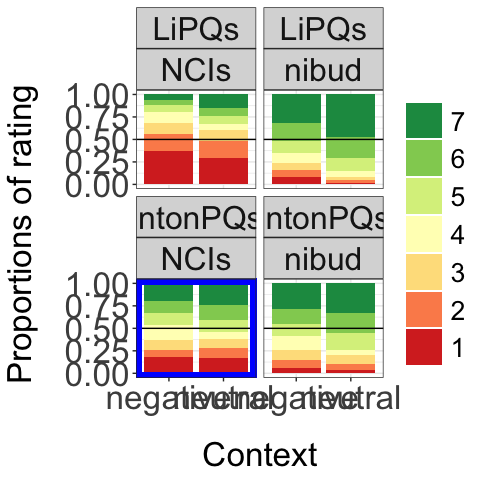
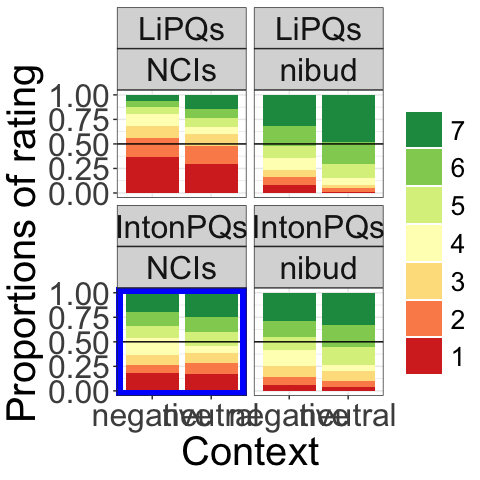
Anova stuff

diff --git a/freq/script.md b/freq/script.md
@@ -14,8 +14,6 @@ Masha Onoeva
   - [Standard error](#standard-error)
   - [t-test](#t-test)
   - [ANOVA](#anova)
-  - [Linear model and linear mixed
-    model](#linear-model-and-linear-mixed-model)
   - [Cumulative Link Mixed Model](#cumulative-link-mixed-model)
 
 ## Info
@@ -377,7 +375,7 @@ as_raw_html(raw_summary %>% gt(groupname_col = 'indef',
   cols_label(verb = 'Verb'))
 ```
 
-<div id="dztmhfgcyb" style="padding-left:0px;padding-right:0px;padding-top:10px;padding-bottom:10px;overflow-x:auto;overflow-y:auto;width:auto;height:auto;">
+<div id="bxbzwbrjeb" style="padding-left:0px;padding-right:0px;padding-top:10px;padding-bottom:10px;overflow-x:auto;overflow-y:auto;width:auto;height:auto;">
   &#10;  
 
 |          | Verb  | Mode | Median | Mean | Range | Variance | SD   |
@@ -472,11 +470,11 @@ e1_main_plot1 <- ggplot(e1_df_relevel1, aes(fill = rating1, x = context)) +
     text = element_text(size = 30),
     legend.text = element_text(size = 20),
     legend.key.size = unit(1, 'cm'),
-    legend.title = element_blank(),
-    axis.text = element_text(size = 25),
-    axis.title = element_text(size = 25),
-    axis.title.y = element_text(margin = margin(t = 0, r = 20, b = 0, l = 0)),
-    axis.title.x = element_text(margin = margin(t = 20, r = 0, b = 0, l = 0))
+    legend.title = element_blank()
+    # axis.text = element_text(size = 25),
+    # axis.title = element_text(size = 25),
+    # axis.title.y = element_text(margin = margin(t = 0, r = 20, b = 0, l = 0)),
+    # axis.title.x = element_text(margin = margin(t = 20, r = 0, b = 0, l = 0))
   ) +
   xlab("Context") +
   ylab("Proportions of rating") + 
@@ -649,7 +647,7 @@ as_raw_html(raw_summary1 %>% gt(groupname_col = 'indef',
              RSE = 'RSE (%)'))
 ```
 
-<div id="vccjnkqrfz" style="padding-left:0px;padding-right:0px;padding-top:10px;padding-bottom:10px;overflow-x:auto;overflow-y:auto;width:auto;height:auto;">
+<div id="tuzumaagya" style="padding-left:0px;padding-right:0px;padding-top:10px;padding-bottom:10px;overflow-x:auto;overflow-y:auto;width:auto;height:auto;">
   &#10;  
 
 |          | Verb  | Mean | SD   | SE     | RSE (%) |
@@ -763,7 +761,7 @@ as_raw_html(t_test_results %>%
                          p.value = 'p-value'))
 ```
 
-<div id="yjmujcxatc" style="padding-left:0px;padding-right:0px;padding-top:10px;padding-bottom:10px;overflow-x:auto;overflow-y:auto;width:auto;height:auto;">
+<div id="mdsfcdjouf" style="padding-left:0px;padding-right:0px;padding-top:10px;padding-bottom:10px;overflow-x:auto;overflow-y:auto;width:auto;height:auto;">
   &#10;  
 
 | Condition | Mean | t-value | p-value | parameter | conf.low | conf.high | method | alternative |
@@ -825,9 +823,17 @@ and in items. There are possibilities how to account for it for t-test
 
 ### ANOVA
 
-(All taken from [this web](https://statsandr.com/blog/anova-in-r/) and
-[this
-web](https://support.minitab.com/en-us/minitab/help-and-how-to/statistical-modeling/anova/supporting-topics/basics/what-is-anova/).)
+#### One-way ANOVA
+
+Disclaimer :point_up:: All of this with one-way ANOVA is done only for
+an explanatory and study purpose. My design is within-subject, so
+technically I cannot use one-way ANOVA. I violate so many things here
+:grimacing:
+
+Disclaimer :v:: All taken from [this
+web](https://statsandr.com/blog/anova-in-r/), [this
+web](https://support.minitab.com/en-us/minitab/help-and-how-to/statistical-modeling/anova/supporting-topics/basics/what-is-anova/)
+and Levshina (2016).
 
 ANOVA (Analysis of Variance) suits a bit better for the experiment but
 it’s still not quite there yet as it doesn’t care for random effects.
@@ -882,16 +888,52 @@ oneway.test(rating1~condition,
     data:  rating1 and condition
     F = 90, num df = 7, denom df = 927, p-value <2e-16
 
-#### Two-way ANOVA?
+Below is the most common output from ANOVA. Once again I violate perhaps
+all conditions that can be violated but who cares.
 
 ``` r
-lm_model <- lm(rating1 ~ indef * verb * context, data = e1_df)
-summary(lm_model)
+e1_df$rating1 <- as.numeric(e1_df$rating1)
+e1_df.aov <- aov(rating1~condition, data=e1_df)
+summary(e1_df.aov)
+```
+
+                  Df Sum Sq Mean Sq F value Pr(>F)    
+    condition      7   2020   288.6    75.6 <2e-16 ***
+    Residuals   2168   8274     3.8                   
+    ---
+    Signif. codes:  0 '***' 0.001 '**' 0.01 '*' 0.05 '.' 0.1 ' ' 1
+
+``` r
+res <- residuals(e1_df.aov)
+pred <- predict(e1_df.aov)
+
+# Residuals vs Predicted Values
+plot(pred, res, 
+     xlab = "Predicted Values", 
+     ylab = "Residuals", 
+     main = "Residuals vs. Predicted Values",
+     pch = 20, col = "blue")
+abline(h = 0, col = "red", lty = 2)
+```
+
+![](script_files/figure-commonmark/unnamed-chunk-30-1.png)
+
+``` r
+# Q-Q Plot
+qqnorm(res)  # Create the Q-Q plot
+qqline(res, col = "red")  # Add a reference line
+```
+
+![](script_files/figure-commonmark/unnamed-chunk-30-2.png)
+
+``` r
+e1_df.lm <- lm(rating1~condition1, data=e1_df)
+summary(e1_df.lm)
 ```
 
 
     Call:
-    lm(formula = rating1 ~ indef * verb * context, data = e1_df)
+    lm(formula = rating1 ~ condition1, data = e1_df)
 
     Residuals:
        Min     1Q Median     3Q    Max 
@@ -899,14 +941,14 @@ summary(lm_model)
 
     Coefficients:
                                      Estimate Std. Error t value Pr(>|t|)    
-    (Intercept)                        2.7574     0.1184   23.28  < 2e-16 ***
-    indefnibud                         2.2500     0.1675   13.43  < 2e-16 ***
-    verbV2                             1.4154     0.1675    8.45  < 2e-16 ***
-    contextneutral                     0.5772     0.1675    3.45  0.00058 ***
-    indefnibud:verbV2                 -1.5699     0.2369   -6.63  4.3e-11 ***
-    indefnibud:contextneutral          0.3051     0.2369    1.29  0.19785    
-    verbV2:contextneutral             -0.3897     0.2369   -1.65  0.10011    
-    indefnibud:verbV2:contextneutral  -0.0662     0.3350   -0.20  0.84343    
+    (Intercept)                         3.335      0.118   28.15  < 2e-16 ***
+    condition1b neutral V2 ni           1.026      0.168    6.12  1.1e-09 ***
+    condition1c neutral V1 li nibud     2.555      0.168   15.25  < 2e-16 ***
+    condition1d neutral V2 nibud        1.945      0.168   11.61  < 2e-16 ***
+    condition1e negative V1 li ni      -0.577      0.168   -3.45  0.00058 ***
+    condition1f negative V2 ni          0.838      0.168    5.00  6.1e-07 ***
+    condition1g negative V1 li nibud    1.673      0.168    9.99  < 2e-16 ***
+    condition1h negative V2 nibud       1.518      0.168    9.06  < 2e-16 ***
     ---
     Signif. codes:  0 '***' 0.001 '**' 0.01 '*' 0.05 '.' 0.1 ' ' 1
 
@@ -948,11 +990,30 @@ summary(clm_model)
     5|6    1.908      0.118   16.19
     6|7    2.714      0.123   22.10
 
-### Linear model and linear mixed model
-
-Well, ANOVA section seems redundant now.
-
 ### Cumulative Link Mixed Model
+
+So far I looked whether my obtained means are different from each other.
+I just found out that some conditions significantly more natural then
+the others. But why? Well, maybe it’s a chance or maybe these three
+independent variables that I had impacted their naturalness. Using
+linear models one can now check how the independent variables change the
+dependent one.
+
+Just to remind:
+
+- rating from 1 to 7 is my dependent variable, it is ordinal type of
+  data (very important!)
+
+- three variables each with two levels are independent
+
+  - indef: ni/nibud
+
+  - context: neutral/negative
+
+  - verb: V1/V2
+
+Maybe one of the independent variables affected the dependent, maybe
+their combinations did.
 
 I’ll come back with more :v: :sparkles:
 
